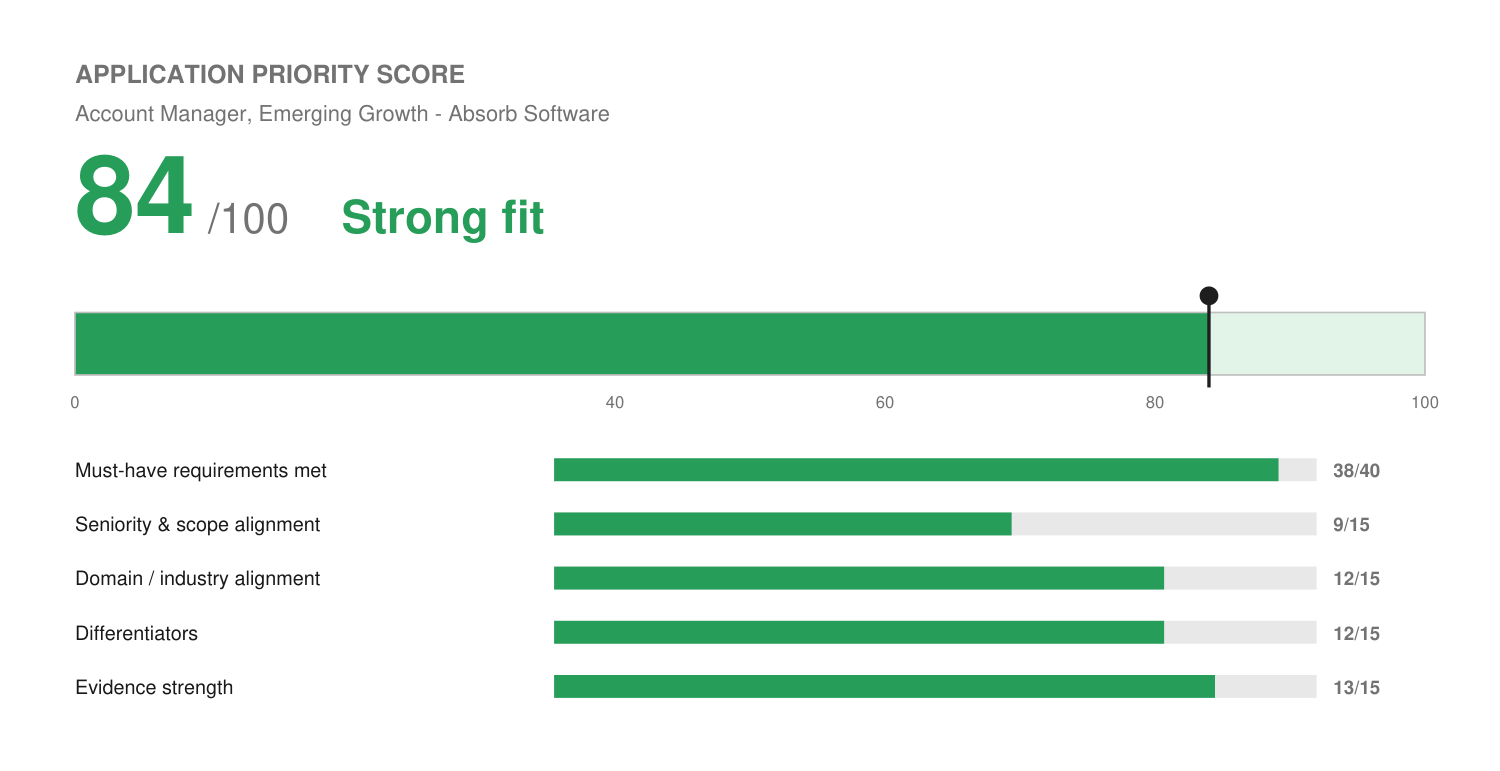
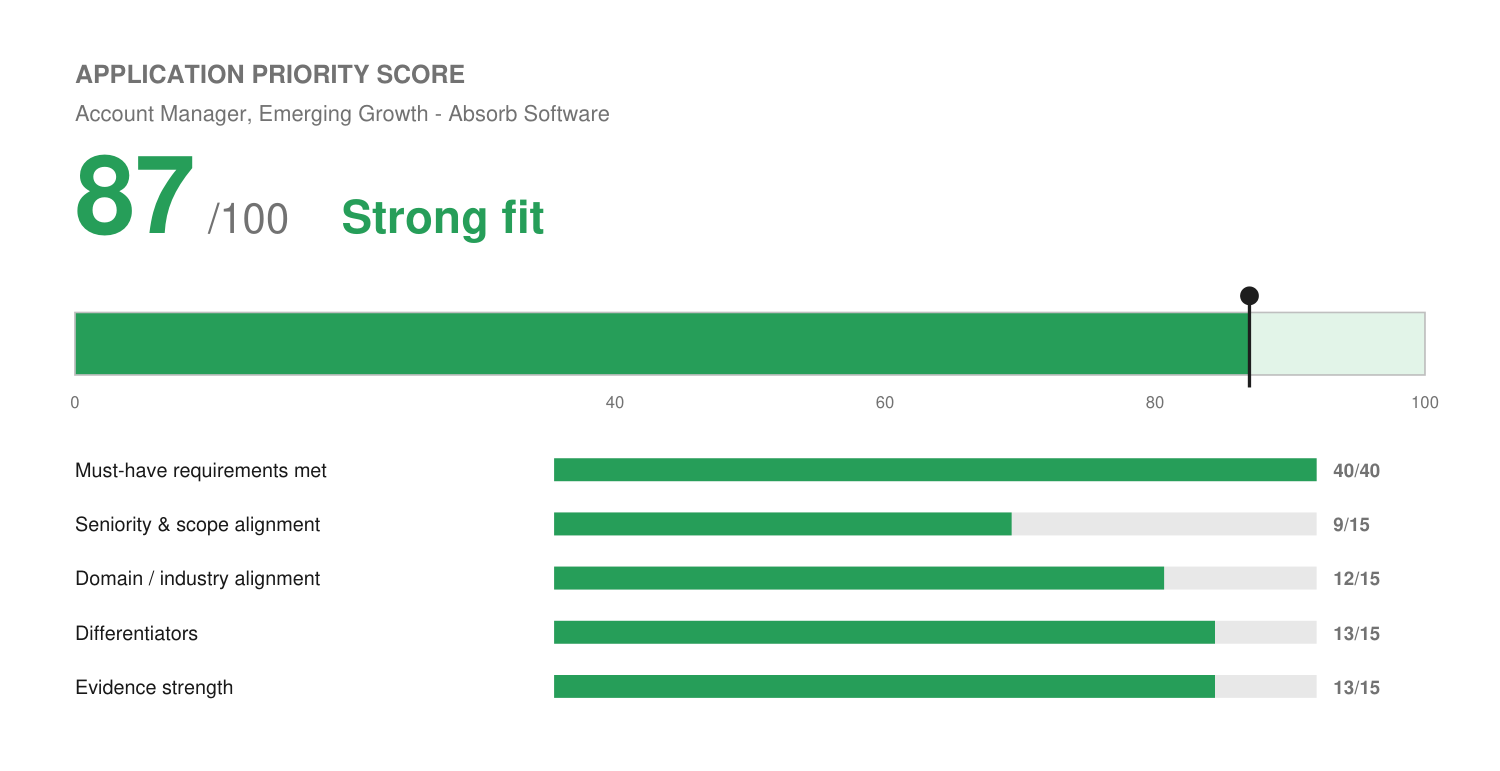
Absorb AM Emerging Growth: rescored 87, resume updated; profile adds PowerPoint, Accelo global clients, proposals/SOWs
Claude-Session: https://claude.ai/code/session_01HUxzaee8VTv7sJJkCcz6f3

diff --git a/applications/absorb-account-manager-emerging-growth/match-report.md b/applications/absorb-account-manager-emerging-growth/match-report.md
@@ -22,26 +22,26 @@ No knockouts. Remote US clears his location constraint; language fluency is pref
 | Post-secondary degree (pref. business) | Resume-evidenced | Covered. B.A. Liberal Arts, CSU. "Preferably" business, so not a blocker. |
 | 1-2 yrs managing client relationships + upselling | Resume-evidenced | **Covered, many times over.** Birdeye, Wix, Accelo, Solenzo. |
 | Fluency in additional languages | Preferred | English only. Real gap, preferred only. |
-| **Strong MS Office, primarily Excel and PowerPoint** | Resume-evidenced | Excel is confirmed (experienced). **PowerPoint still needs candidate confirmation** (fourth posting to name Office). Excel is on the resume; PowerPoint is not. |
-| **Experience with a global client base** | Preferred | **Needs candidate confirmation.** Wix serves an international customer base, but whether Josh's own accounts were non-US isn't documented. |
+| Strong MS Office, primarily Excel and PowerPoint | Resume-evidenced | **Covered.** Excel experienced; PowerPoint confirmed by Josh (Oct 12), same level as Google Slides. Both on resume. |
+| Experience with a global client base | Preferred | **Covered.** Accelo accounts included international clients (confirmed Oct 12). |
 
 ---
 
 ## Application Priority Score
 
 ```
-🟢 Application Priority Score: 84 / 100 — Strong fit
-[█████████████████░░░]  84%
+🟢 Application Priority Score: 87 / 100 — Strong fit
+[█████████████████░░░]  87%
 ```
 
 *Internal decision aid based on evidence in the master profile. Not a prediction of Absorb's screening, ATS output, or hiring decision.* See `fit.png`.
 
 | Dimension | Score | Reasoning |
 | :--- | :--- | :--- |
-| Must-have requirements met | 38 / 40 | Degree, relationship management + upsell, communication, time management, SaaS sales, Salesforce, Gong all land. Only soft miss: proposals/SOWs are evidenced as scoping and implementation plans rather than formal SOW authorship. |
+| Must-have requirements met | 40 / 40 | Every must-have lands, including proposals/SOWs (written himself at Accelo and Solenzo, confirmed Oct 12). |
 | Seniority & scope alignment | 9 / 15 | **Biggest issue.** Posting asks 1-2 years; "Emerging Growth" is the SMB/early-stage segment. Overqualification risk at screen (recruiter may assume he'll be bored or expensive). Cover letter addresses it head on. |
 | Domain / industry alignment | 12 / 15 | B2B SaaS throughout. No LMS/HR-tech selling, but real training-delivery experience (Wix team training, Accelo client workshops) gives him the L&D buyer's perspective. |
-| Differentiators | 12 / 15 | Role shape is his stated preference: inherit a book, deepen and expand it. Team-lead and training background is unusual for this level. |
+| Differentiators | 13 / 15 | Global client base at Accelo. Role shape is his stated preference: inherit a book, deepen and expand it. Team-lead and training background is unusual for this level. |
 | Evidence strength | 13 / 15 | ~94% partner retention, 120% of target, top three of 8-15 reps. No explicit net-dollar-retention or renewal-rate number. |
 
 **Band: Strong fit.** The work matches him; the level is below him. The decision is comp and level, not capability.
@@ -50,14 +50,14 @@ No knockouts. Remote US clears his location constraint; language fluency is pref
 
 ## Requirement coverage
 
-7 of 7 must-haves evidenced; 3 of 5 preferred (SaaS sales, Salesforce, Excel portion of Office).
+7 of 7 must-haves evidenced; 4 of 5 preferred (SaaS sales, Salesforce, Excel + PowerPoint, global client base). Only miss: additional language.
 
 | Requirement | Evidence |
 | :--- | :--- |
 | Grow NDR via upsell/cross-sell | Solenzo retainer-scope expansion; Wix 120% of sales targets on an account portfolio |
 | Lead renewals, expand ARR | Birdeye ~94% partner retention on $10K-$45K deals |
 | Land and expand within accounts | Solenzo scope expansion; Accelo services bookings on top of recurring revenue |
-| Proposals / SOWs | Accelo scoping + sequenced implementation plans; Solenzo scoping complementary services (adjacent) |
+| Proposals / SOWs | Wrote proposals and SOWs himself at Accelo and Solenzo |
 | Trusted relationships | Accelo C-suite advisory; Birdeye partner retention advisory |
 | Pipeline accuracy, monthly/quarterly reporting | Career-long forecast hygiene; Level Agency QBRs |
 | Cross-functional partnerships (CS, Support, Product) | Birdeye feedback loop to Product/Engineering; Wix team lead |
@@ -79,9 +79,7 @@ No knockouts. Remote US clears his location constraint; language fluency is pref
 
 ## Candidate confirmation needed
 
-- **PowerPoint**: hands-on proficiency? (Excel already confirmed.) If yes, add to profile and resume.
-- **Global client base**: were any of your Wix (or Birdeye) accounts outside the US?
-- **Formal SOWs**: did you write SOWs/proposals yourself at Accelo or Solenzo, or were they templated by ops?
+All three resolved Oct 12 (PowerPoint yes, Accelo global clients yes, wrote proposals/SOWs at Accelo and Solenzo) and added to `master-profile.md`.
 
 ## Metrics needed
 

diff --git a/profile/master-profile.md b/profile/master-profile.md
@@ -357,6 +357,7 @@ operator talking, not like a candidate performing.
 - Own the primary strategic relationship for a portfolio of service-based businesses, running discovery and onboarding to surface client goals, objectives, and market challenges.
 - Run day-to-day delivery for B2B clients, managing operational needs and driving them to their goals on complex SaaS platforms.
 - Identify strategic opportunities to expand retainer scope, recommending and scoping complementary services aligned with client objectives.
+- Write client proposals and statements of work for new and expanded engagements. *(Confirmed by Josh, Oct 2026.)*
 - Align marketing programs to revenue objectives directly with business owners and sales teams, producing consistent messaging and qualified lead flow.
 - Document every client interaction, timeline, and deliverable in GoHighLevel, HubSpot, and Notion, keeping project records auditable across concurrent engagements.
 
@@ -642,6 +643,13 @@ operator talking, not like a candidate performing.
 > architecture and engineering firms that Josh sold to and scoped. Procore: no real hands-on
 > use; removed from the tools list, do not claim.
 >
+> **Global client base (confirmed by Josh, Oct 2026, Absorb):** Accelo accounts included
+> clients outside the US. Countries/regions not captured; claim "global client base" or
+> "international clients" without naming countries.
+>
+> **Proposals and SOWs (confirmed by Josh, Oct 2026, Absorb):** wrote proposals and
+> statements of work himself at Accelo and at Solenzo. Safe to claim directly.
+>
 > **Invoicing/billing features (confirmed by Josh, Oct 2026):** demoed and/or set up
 > Accelo's invoicing and billing modules for clients. Closest real evidence for AP/billing
 > postings, scoped honestly: a PSA tool's billing side for professional-services firms, not
@@ -653,6 +661,7 @@ operator talking, not like a candidate performing.
 > through the present at Solenzo, not a skill that started recently.
 - Ranked **top three in sales** on a team that scaled from **8 to 15 reps**, holding that rank across all but the final few months of a **27-month tenure** (Apr 2018 - Jul 2020), while **quota roughly doubled** over the period.
 - Closed deals of **$20K and larger** later in tenure, mixed with a base of smaller wins.
+- Wrote proposals and statements of work for a client base that included international accounts. *(Confirmed by Josh, Oct 2026.)*
 - Built sequenced implementation plans for incoming clients, ranking which systems to change and in what order, and handed them to the implementation team to execute against.
 - Sold and scoped complex CRM and project-management software to agencies and professional-services firms (including architecture and engineering firms, confirmed by Josh Oct 2026), with deep fluency in sales enablement, contact management, and pipeline automation.
 - Guided client onboarding, workflow design, and API integrations, building relationships with C-Suite executives as a trusted advisor on operational system design.
@@ -735,7 +744,11 @@ operator talking, not like a candidate performing.
 | Sales & Account Management | Full-cycle Sales, Pipeline Management, Pipeline Stage Tracking & Forecast Hygiene, C-Suite Relationship Building, Strategic Advisory, Account Expansion |
 | Operations & Systems | Process Mapping, SOP Development, Workflow Decomposition, Project Management, Cross-functional Coordination |
 | Content & Writing | Thought Leadership, Direct Response Copy, Technical Translation, Brand Voice, Editorial Management |
-| Tools & Platforms | GoHighLevel, HubSpot, Salesforce, Notion, Slack, Asana, Monday.com, Jira, Zendesk, ClickUp, Screaming Frog, Google Apps |
+| Tools & Platforms | GoHighLevel, HubSpot, Salesforce, Notion, Slack, Asana, Monday.com, Jira, Zendesk, ClickUp, Screaming Frog, Google Apps (incl. Google Slides), Microsoft Office (Excel, PowerPoint) |
+
+> **Microsoft Office / PowerPoint (confirmed by Josh, Oct 2026, Absorb):** hands-on
+> PowerPoint, same proficiency as Google Slides. With Excel already confirmed, "Strong MS
+> Office (Excel, PowerPoint)" clears the bar. Don't re-ask.
 
 > **Excel, Power BI, SQL, Python/JS (confirmed by Josh, Sep 2026, updated Sep 2026):**
 > Excel is a genuine, experienced-level skill, not just baseline literacy. Power BI is
